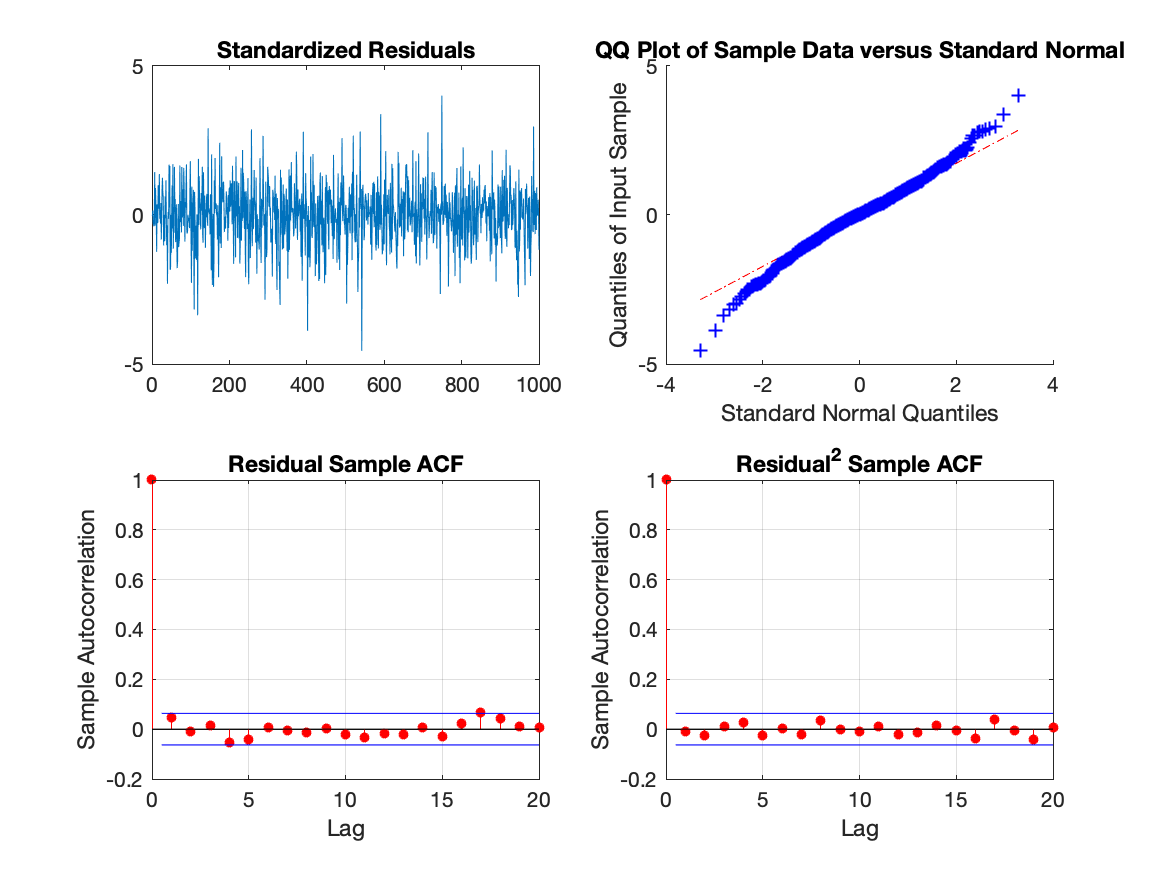
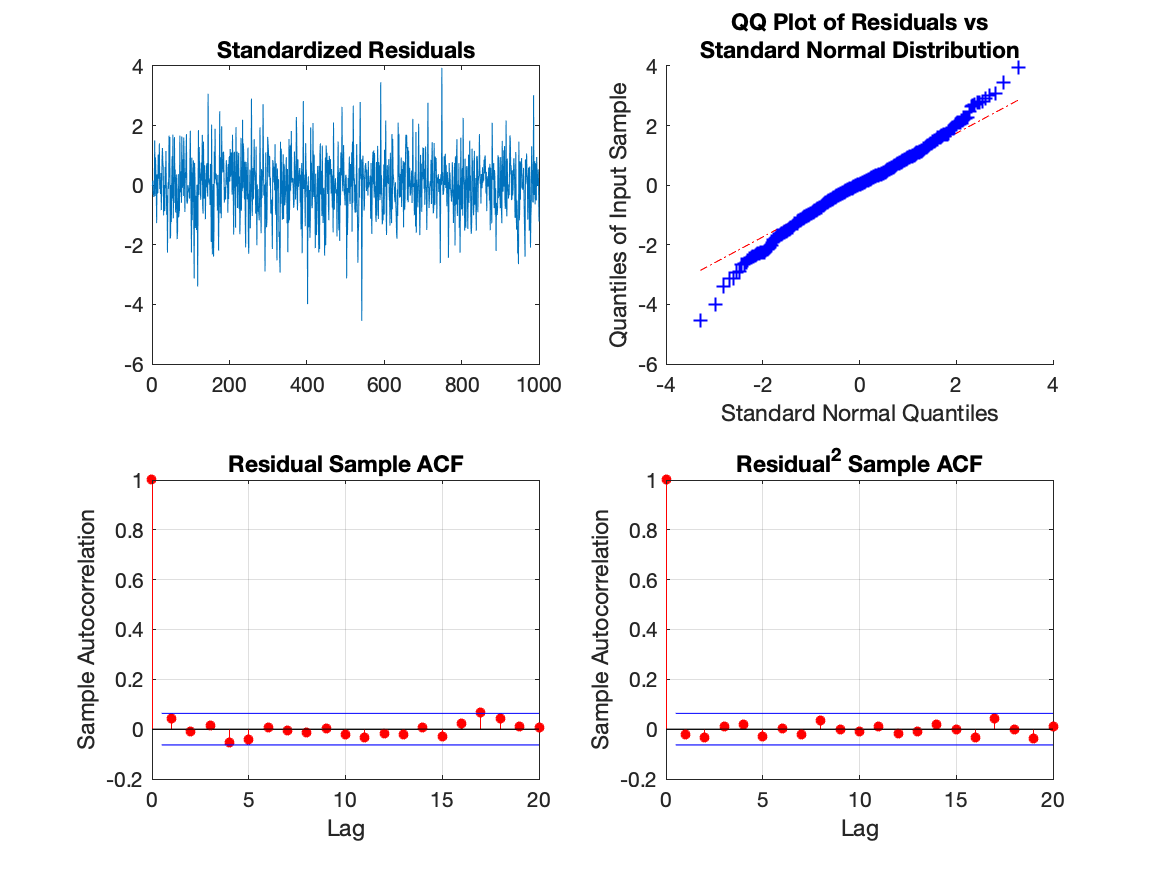
Update residual plots and description about them

diff --git a/main.tex b/main.tex
@@ -64,7 +64,7 @@ For each of these models we computed the BIC (Bayesian information criteria) and
 The minimum model was the GARCH(1,1) model
 \begin{align*}
 X_t &= \sigma_t Z_t && Z_t \sim IIDN(0, 1)\\
-\sigma_t^2 &= \alpha_1 X_{t - 1}^2 + \beta_1 \sigma_{t - 1}^2
+\sigma_t^2 &= \alpha_0 + \alpha_1 X_{t - 1}^2 + \beta_1 \sigma_{t - 1}^2
 \end{align*}
 
 \begin{figure}[H]
@@ -87,6 +87,7 @@ We see that in the QQ plot there is some deviation from the standard normal.
 We have heavier tails than we would expect with a standard normal.
 The autocorrelation of the sample ACF has almost all of the values within $\pm 1.96 / \sqrt{n}$.
 Similarly, the residuals squared also appear to be iid normal as all of the acf values are within $\pm 1.96 / \sqrt{n}$.
+Based on the QQ-plot, it makes sense to investigate whether a Student's t distribution, which allows for heavier tails, would fit the data better.
 
 \begin{figure}[H]
 \includegraphics[width=16cm]{plots/residual_plots_norm.png}
@@ -96,6 +97,19 @@ Similarly, the residuals squared also appear to be iid normal as all of the acf 
 \end{figure}
 
 \section*{Problem 4}
+
+Now we have the model
+
+\begin{align*}
+X_t &= \sigma_t Z_t && Z_t \sim IID-t(0, 1)\\
+\sigma_t^2 &= \alpha_0 + \alpha_1 X_{t - 1}^2 + \beta_1 \sigma_{t - 1}^2
+\end{align*}
+
+Where $IID-t(0,1)$ is indepedent and identically distributed Student's t distribution with some degrees of freedom $\nu$.
+Again we find that the GARCH(1,1) model has the minimum BIC.
+The ACF of the residuals and square residuals are consistent with iid noise as in the previous problem.
+A big difference is the QQ plot which now fits almost exactly.
+The model was estimated with degrees of freedom equal to 8.03.
 
 \begin{figure}[H]
 \includegraphics[width=10cm]{plots/bic_heatmap_t.png}
@@ -110,6 +124,9 @@ Similarly, the residuals squared also appear to be iid normal as all of the acf 
 \caption{Residual Plots for GARCH(1,1) process with Student's t distribution noise}
 \label{fig:residual_plots_norm}
 \end{figure}
+
+\section*{Problem 5}
+
 
 \begin{appendices}
 

diff --git a/project2.m b/project2.m
@@ -89,14 +89,13 @@ plot(res);
 title('Standardized Residuals');
 subplot(2,2,2);
 qqplot(res);
-%title('Residual Histogram');
+title({'QQ Plot of Residuals vs','Standard Normal Distribution'});
 subplot(2,2,3);
 autocorr(res);
 title('Residual Sample ACF');
 subplot(2,2,4);
 autocorr(res.^2);
 title('Residual^2 Sample ACF');
-%parcorr(res);
 % title('Residual Sample PACF');
 saveas(gcf,'plots/residual_plots_norm.png');
 
@@ -158,6 +157,8 @@ subplot(2,2,2);
 % QQ-plot for t distribution with the estimated degrees of freedom
 tdist = makedist('tLocationScale', 'nu', tEstMdl.Distribution.DoF);
 qqplot(res, tdist);
+title({'QQ Plot of Residuals vs',"Student's t Distribution", "(df = " + round(tEstMdl.Distribution.DoF, 2) + ")"});
+xlabel("Quantiles of t distribution");
 subplot(2,2,3);
 autocorr(res);
 title('Residual Sample ACF');
